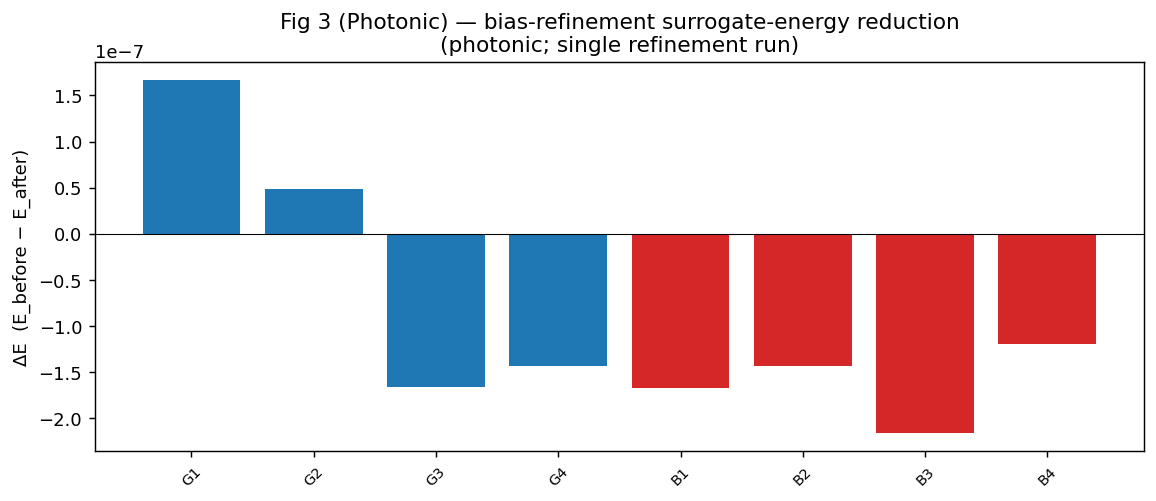
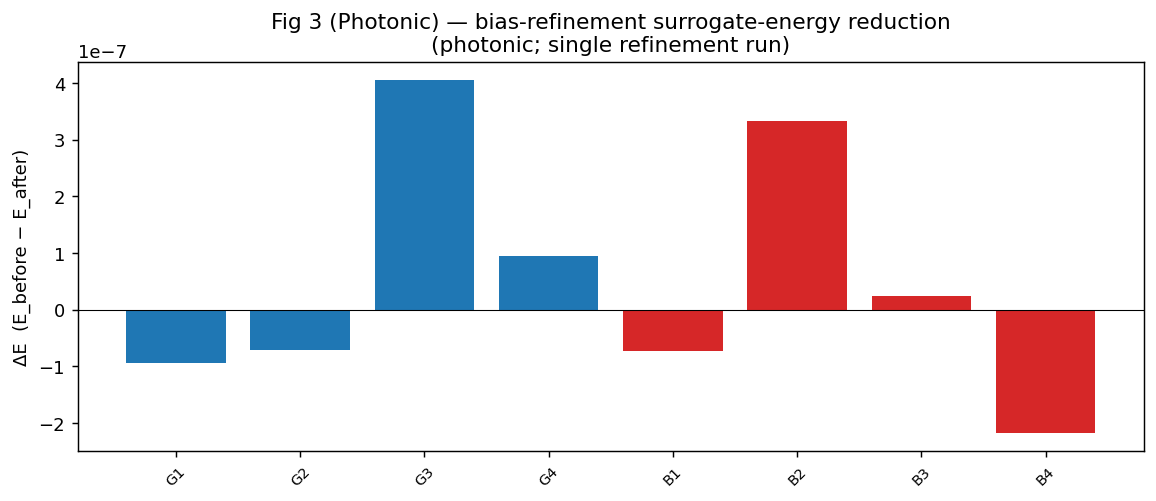
Updates

diff --git a/papers/EGAS/utils/plot_results.py b/papers/EGAS/utils/plot_results.py
@@ -455,23 +455,30 @@ if __name__ == "__main__":
     )
     a = ap.parse_args()
 
-    if a.wasserstein:
-        plot_wasserstein(a.wasserstein)
-    if a.fig1:
-        plot_fig1(a.fig1)
-    if a.fig3_gate:
-        plot_fig3_deltaE_per_candidate(a.fig3_gate)
-    if a.fig3_photonic:
-        plot_fig3_deltaE_per_candidate_photonic(a.fig3_photonic)
-    if a.fig4_gate:
-        plot_fig4_deltaE_groups(a.fig4_gate)
-    if a.fig4_photonic:
-        plot_fig4_deltaE_groups_photonic(a.fig4_photonic)
-    if a.fig5_gate:
-        plot_fig5_win_tie_loss(a.fig5_gate)
-    if a.fig5_photonic:
-        plot_fig5_win_tie_loss_photonic(a.fig5_photonic)
-    if a.fig6_gate:
-        plot_fig6_iqr(a.fig6_gate)
-    if a.fig6_photonic:
-        plot_fig6_iqr_photonic(a.fig6_photonic)
+    try:
+        if a.wasserstein:
+            plot_wasserstein(a.wasserstein)
+        if a.fig1:
+            plot_fig1(a.fig1)
+        if a.fig3_gate:
+            plot_fig3_deltaE_per_candidate(a.fig3_gate)
+        if a.fig3_photonic:
+            plot_fig3_deltaE_per_candidate_photonic(a.fig3_photonic)
+        if a.fig4_gate:
+            plot_fig4_deltaE_groups(a.fig4_gate)
+        if a.fig4_photonic:
+            plot_fig4_deltaE_groups_photonic(a.fig4_photonic)
+        if a.fig5_gate:
+            plot_fig5_win_tie_loss(a.fig5_gate)
+        if a.fig5_photonic:
+            plot_fig5_win_tie_loss_photonic(a.fig5_photonic)
+        if a.fig6_gate:
+            plot_fig6_iqr(a.fig6_gate)
+        if a.fig6_photonic:
+            plot_fig6_iqr_photonic(a.fig6_photonic)
+    except Exception as e:
+        import traceback
+
+        print(f"Error generating plots: {e}", file=__import__("sys").stderr)
+        traceback.print_exc(file=__import__("sys").stderr)
+        raise

diff --git a/papers/EGAS/lib/runner.py b/papers/EGAS/lib/runner.py
@@ -100,12 +100,14 @@ def _run_photonic_eval(cfg, run_dir, logger):
     Xe, ye = Xtr0[idx], slices[0]["y_train"][idx]
 
     t0 = time.time()
+    # For photonic_eval, seq_len should come from photonic config (same as gate-based)
+    photonic_seq_len = int(pcfg.get("seq_len", 28))
     gpt, hist, buf = run_egas(
         pool,
         Xe,
         ye,
         n_modes,
-        seq_len=int(ecfg.get("seq_len", pcfg.get("seq_len", 28))),
+        seq_len=photonic_seq_len,
         num_photons=n_photons,
         computation_space=computation_space,
         n_iters=int(ecfg.get("n_iters", pcfg.get("n_iters", 20))),
@@ -116,7 +118,7 @@ def _run_photonic_eval(cfg, run_dir, logger):
         temp_max=float(ecfg.get("temp_max", pcfg.get("temp_max", 100.0))),
         temp_min=float(ecfg.get("temp_min", pcfg.get("temp_min", 0.04))),
         d_model=int(ecfg.get("d_model", pcfg.get("d_model", 32))),
-        n_layers=int(ecfg.get("n_layers", pcfg.get("gpt_layers", 1))),
+        n_layers=int(ecfg.get("n_layers", 1)),
         n_heads=int(ecfg.get("n_heads", pcfg.get("n_heads", 2))),
         seed=seed,
         device=device,
